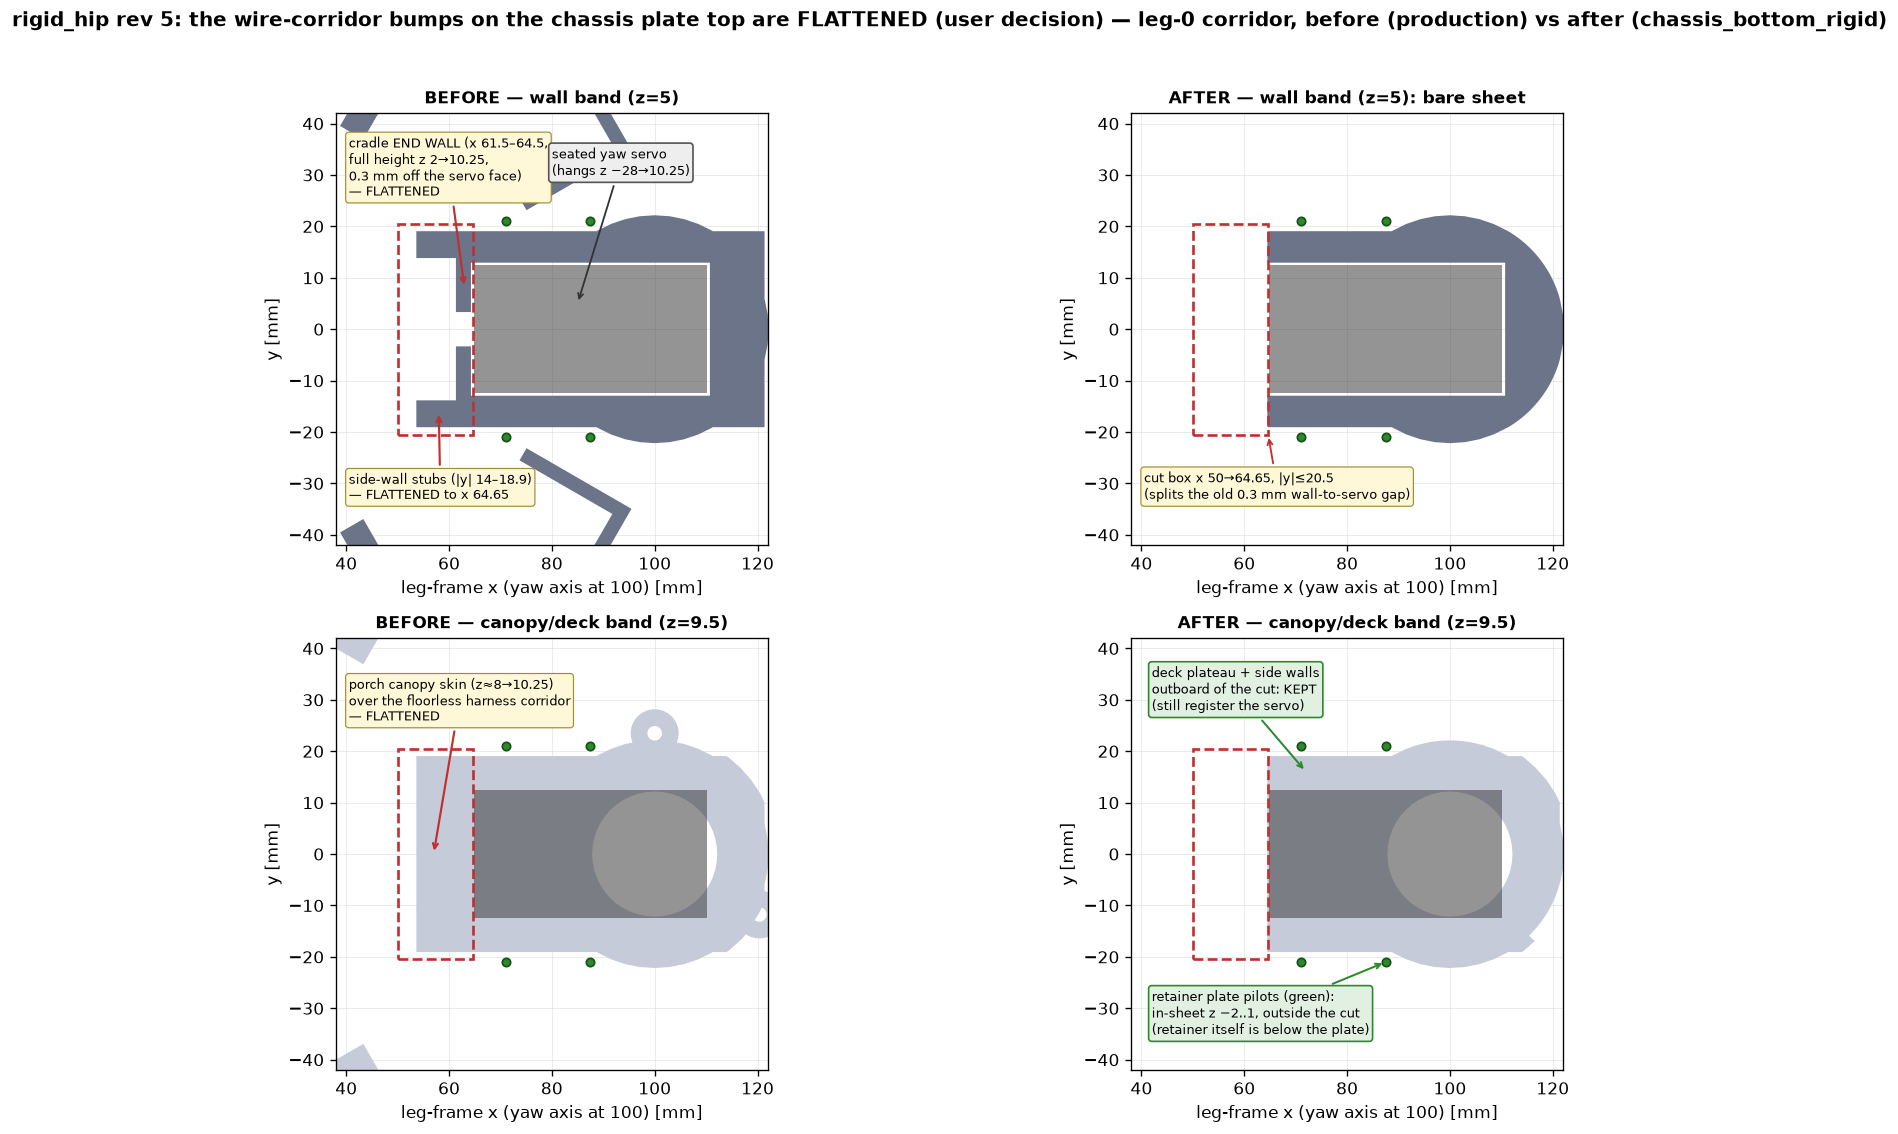
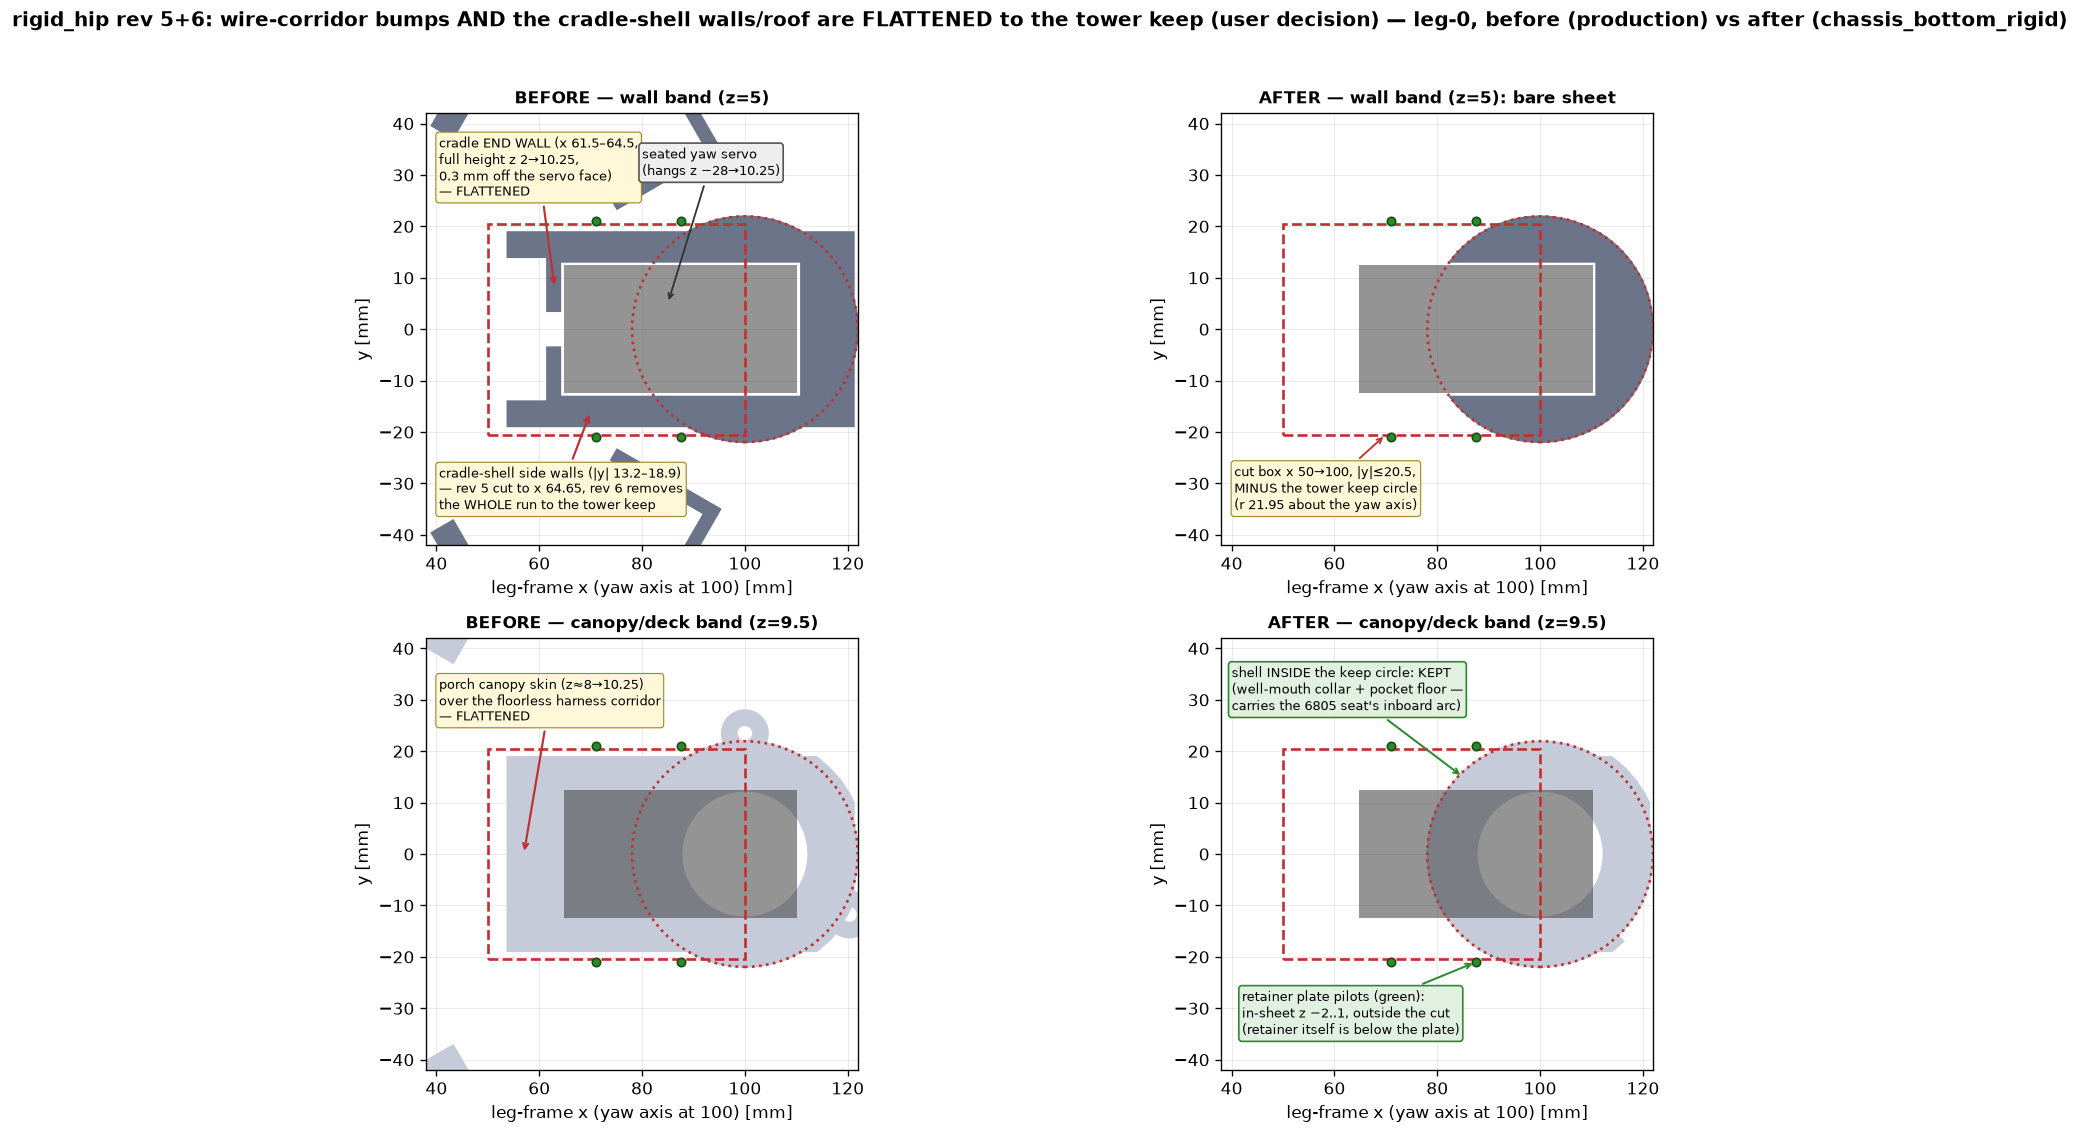
rigid_hip: rev-6 figures — user-angle before/after of the pillar stubs + updated corner-flat sections

diff --git a/hexapod_walker/prototype_sts3215/concepts/rigid_hip/make_pillar_stub_figure.py b/hexapod_walker/prototype_sts3215/concepts/rigid_hip/make_pillar_stub_figure.py
@@ -1,0 +1,154 @@
+"""Annotated 3D before/after of the corner-pillar "gray stubs" (rev 6).
+
+User, Aug 25: "how are there still these two gray things from the waygo
+sticking up on each side of the column".  They were the inboard ends of
+the two adjacent legs' yaw-servo CRADLE SHELLS (side walls + the
+deck-skin roof they carried), left standing by the rev-5 corridor
+flatten.  Rev 6 removes the whole shell run outside the tower keep
+cylinder; this figure reproduces roughly the user's viewer angle
+(inboard, looking out at the az-0 corner) so the change is unambiguous:
+where the stubs stood there is now bare sheet, and the gray thing you
+DO see beside each tower boss is the yaw servo itself.
+
+BEFORE is rebuilt in-process by monkeypatching the rev-5 cut extent
+(CHB_FLAT_X1 = 64.65) before calling the chassis builder; AFTER is the
+shipped stl/chassis_bottom_rigid.stl.  Meshes are boolean-clipped to
+the corner window and subdivided so matplotlib's painter sort holds up.
+
+Run from anywhere:  uv run python make_pillar_stub_figure.py
+Output: pillar_stubs_annotated.png
+"""
+import os
+import sys
+
+import numpy as np
+import trimesh
+import matplotlib
+
+matplotlib.use("Agg")
+import matplotlib.pyplot as plt  # noqa: E402
+from mpl_toolkits.mplot3d import proj3d  # noqa: E402
+from mpl_toolkits.mplot3d.art3d import Poly3DCollection  # noqa: E402
+
+HERE = os.path.abspath(os.path.dirname(__file__))
+sys.path.insert(0, os.path.abspath(os.path.join(HERE, "..", "..")))
+sys.path.insert(0, HERE)
+
+import hexapod_prototype as hp  # noqa: E402
+import make_rigid_hip_variant as mv  # noqa: E402
+
+OUT = os.path.join(HERE, "pillar_stubs_annotated.png")
+
+# ---- geometry ---------------------------------------------------------------
+after = trimesh.load(os.path.join(HERE, "stl", "chassis_bottom_rigid.stl"))
+
+print("rebuilding the rev-5 chassis (BEFORE panel) ...", flush=True)
+_x1 = mv.CHB_FLAT_X1
+mv.CHB_FLAT_X1 = 64.65          # the rev-5 cut stopped at the old wall face
+before = mv.make_chassis_bottom_rigid()
+mv.CHB_FLAT_X1 = _x1
+
+pillar = trimesh.load(os.path.join(HERE, "stl", "corner_pillar.stl"))
+servo = trimesh.load(os.path.join(HERE, "stl", "servo_body_DO_NOT_PRINT.stl"))
+
+servos = []
+for i in (0, 5):                # the two legs adjacent to the az-0 corner
+    T = mv.leg_transforms(i)
+    s = servo.copy()
+    s.apply_transform(T["coxa"] @ mv._trans(
+        [-hp.SERVO_OUTPUT_X, 0.0, -(hp.HORN_STACK_H + hp.WELL_RIM_Z)]))
+    servos.append(s)
+
+LO = np.array([48.0, -42.0, -5.0])
+HI = np.array([120.0, 42.0, 42.0])
+CLIP_BOX = trimesh.creation.box(HI - LO, transform=mv._trans((LO + HI) / 2.0))
+
+
+def window_tris(mesh, max_edge=6.0):
+    """Boolean-clip a mesh to the corner window (fallback: face filter),
+    then subdivide so no triangle is large enough to break depth sort."""
+    try:
+        m = mesh.intersection(CLIP_BOX)
+        v, f = m.vertices, m.faces
+    except Exception:
+        v, f = mesh.vertices, mesh.faces
+        c = v[f].mean(axis=1)
+        f = f[np.all((c > LO) & (c < HI), axis=1)]
+    v, f = trimesh.remesh.subdivide_to_size(v, f, max_edge=max_edge)
+    return v[f]
+
+
+def shaded(tris, base_rgb):
+    n = np.cross(tris[:, 1] - tris[:, 0], tris[:, 2] - tris[:, 0])
+    n /= np.linalg.norm(n, axis=1, keepdims=True) + 1e-12
+    light = np.array([-0.5, 0.15, 0.85])
+    lam = np.clip(n @ light, 0.0, 1.0) * 0.5 + 0.5
+    return np.clip(np.outer(lam, np.asarray(base_rgb)), 0, 1)
+
+
+def draw(ax, chassis, title):
+    parts = [(chassis, (0.70, 0.73, 0.79)),
+             (pillar, (0.35, 0.47, 0.72)),
+             (servos[0], (0.30, 0.30, 0.32)),
+             (servos[1], (0.30, 0.30, 0.32))]
+    for mesh, rgb in parts:
+        tris = window_tris(mesh)
+        ax.add_collection3d(Poly3DCollection(
+            tris, facecolors=shaded(tris, rgb), edgecolor="none"))
+    ax.set_xlim(52, 112)
+    ax.set_ylim(-36, 36)
+    ax.set_zlim(-4, 42)
+    ax.set_box_aspect((60, 72, 46))
+    ax.view_init(elev=17, azim=183)
+    ax.set_proj_type("persp", focal_length=0.30)
+    ax.set_axis_off()
+    ax.set_title(title, fontsize=11, fontweight="bold", pad=0)
+
+
+fig = plt.figure(figsize=(14.5, 7.6), dpi=130)
+axB = fig.add_subplot(1, 2, 1, projection="3d")
+axA = fig.add_subplot(1, 2, 2, projection="3d")
+draw(axB, before, "BEFORE (rev 5) — what the user saw")
+draw(axA, after, "AFTER (rev 6) — shipped chassis_bottom_rigid")
+
+
+def note(ax, xyz, text, fx, fy, fc="#fff8d8", ec="#a08c30",
+         ac="#c03030", fs=8.2):
+    x2, y2, _ = proj3d.proj_transform(*xyz, ax.get_proj())
+    ax.annotate(text, xy=(x2, y2), xycoords="data",
+                xytext=(fx, fy), textcoords="axes fraction",
+                fontsize=fs, ha="center", zorder=20,
+                bbox=dict(boxstyle="round,pad=0.3", fc=fc, ec=ec, lw=0.8),
+                arrowprops=dict(arrowstyle="->", color=ac, lw=1.4))
+
+
+# BEFORE: the two stubs (corner frame: wall ends at ~(64, +/-17.5), z 2..10.25)
+note(axB, (64.0, 18.5, 8.5),
+     "gray stub = inboard end of leg-0's\ncradle shell (side wall + roof)",
+     0.20, 0.88)
+note(axB, (64.0, -18.5, 8.5),
+     "gray stub = same shell of leg 5;\nthey flank the pillar at ~10 mm",
+     0.20, 0.10)
+note(axB, (81.6, 0.0, 32.0), "corner pillar", 0.82, 0.88,
+     fc="#e8edf8", ec="#4d6fa8", ac="#4d6fa8")
+
+# AFTER: what is there now, and why the keeps are keeps
+note(axA, (68.0, 32.0, 4.0),
+     "the gray block beside the boss IS the\nYAW SERVO (case 4.25 mm proud of "
+     "the sheet;\nregistered by the sheet well + belly retainer)",
+     0.20, 0.90)
+note(axA, (64.0, -17.5, 2.2),
+     "bare sheet — the stubs stood here\n(their roof touched nothing)",
+     0.20, 0.08)
+note(axA, (90.0, -38.0, 14.0),
+     "\u03a644 tower boss — KEPT: 6805 bearing\nseat + servo well mouth "
+     "(the shell inside\nit carries the seat's inboard arc)",
+     0.84, 0.10, fc="#e2f0e2", ec="#2c8a2c", ac="#2c8a2c")
+
+fig.suptitle('rigid_hip rev 6 — the "two gray things from the waygo" beside '
+             "each corner pillar: identified and flattened "
+             "(az-0 corner, viewed from inboard like the user's screenshot)",
+             fontsize=12, fontweight="bold")
+fig.tight_layout(rect=(0, 0, 1, 0.965))
+fig.savefig(OUT, bbox_inches="tight")
+print("wrote", OUT)

diff --git a/hexapod_walker/prototype_sts3215/concepts/rigid_hip/make_corner_flat_figure.py b/hexapod_walker/prototype_sts3215/concepts/rigid_hip/make_corner_flat_figure.py
@@ -1,4 +1,5 @@
-"""Annotated before/after figure of the FLATTENED wire corridor (rev 5).
+"""Annotated before/after figure of the FLATTENED wire corridor + cradle
+shell (rev 5, Aug 24 + rev 6, Aug 25).
 
 User decision, Aug 24 rev 5: "take a step back that CRADLE WALL isnt
 doing shit, just flatten it out and its fine" / "also this isnt wall
@@ -23,7 +24,7 @@ import matplotlib
 
 matplotlib.use("Agg")
 import matplotlib.pyplot as plt  # noqa: E402
-from matplotlib.patches import Rectangle  # noqa: E402
+from matplotlib.patches import Circle, Rectangle  # noqa: E402
 
 HERE = os.path.abspath(os.path.dirname(__file__))
 sys.path.insert(0, os.path.abspath(os.path.join(HERE, "..", "..")))
@@ -87,6 +88,8 @@ for ax, mesh, zc, title in panels:
                            CUT["x1"] - CUT["x0"], 2 * CUT["y"],
                            fill=False, ec="#c03030", lw=1.6, ls="--",
                            zorder=6))
+    ax.add_patch(Circle((100.0, 0.0), mv.CHB_KEEP_R, fill=False,
+                        ec="#c03030", lw=1.6, ls=":", zorder=6))
     for (px, py) in RET_PILOTS:
         ax.plot(px, py, "o", ms=5, mfc="#2c8a2c", mec="#145014", zorder=7)
     ax.set_xlim(38, 122)
@@ -103,8 +106,9 @@ axes[0][0].annotate("cradle END WALL (x 61.5–64.5,\nfull height z 2→10.25,"
                     "\n0.3 mm off the servo face)\n— FLATTENED",
                     xy=(63.0, 8.0), xytext=(40.5, 26), fontsize=7.5,
                     bbox=bx, arrowprops=ar, zorder=9)
-axes[0][0].annotate("side-wall stubs (|y| 14–18.9)\n— FLATTENED to x 64.65",
-                    xy=(58.0, -16.0), xytext=(40.5, -33), fontsize=7.5,
+axes[0][0].annotate("cradle-shell side walls (|y| 13.2–18.9)\n— rev 5 cut to "
+                    "x 64.65, rev 6 removes\nthe WHOLE run to the tower keep",
+                    xy=(70.0, -16.0), xytext=(40.5, -35), fontsize=7.5,
                     bbox=bx, arrowprops=ar, zorder=9)
 axes[0][0].annotate("seated yaw servo\n(hangs z −28→10.25)",
                     xy=(85.0, 5.0), xytext=(80, 30), fontsize=7.5,
@@ -115,14 +119,14 @@ axes[1][0].annotate("porch canopy skin (z≈8→10.25)\nover the floorless "
                     "harness corridor\n— FLATTENED",
                     xy=(57.0, 0.0), xytext=(40.5, 26), fontsize=7.5,
                     bbox=bx, arrowprops=ar, zorder=9)
-axes[0][1].annotate("cut box x 50→64.65, |y|≤20.5\n(splits the old 0.3 mm "
-                    "wall-to-servo gap)",
-                    xy=(64.65, -20.5), xytext=(40.5, -33), fontsize=7.5,
+axes[0][1].annotate("cut box x 50→100, |y|≤20.5,\nMINUS the tower keep "
+                    "circle\n(r 21.95 about the yaw axis)",
+                    xy=(70.0, -20.5), xytext=(40.5, -35), fontsize=7.5,
                     bbox=bx, zorder=9,
                     arrowprops=dict(arrowstyle="->", color="#c03030", lw=1.1))
-axes[1][1].annotate("deck plateau + side walls\noutboard of the cut: KEPT\n"
-                    "(still register the servo)",
-                    xy=(72.0, 16.0), xytext=(42, 28), fontsize=7.5,
+axes[1][1].annotate("shell INSIDE the keep circle: KEPT\n(well-mouth collar + "
+                    "pocket floor —\ncarries the 6805 seat's inboard arc)",
+                    xy=(85.0, 15.0), xytext=(40, 28), fontsize=7.5,
                     bbox=dict(boxstyle="round,pad=0.25", fc="#e2f0e2",
                               ec="#2c8a2c"), zorder=9,
                     arrowprops=dict(arrowstyle="->", color="#2c8a2c", lw=1.2))
@@ -134,9 +138,9 @@ axes[1][1].annotate("retainer plate pilots (green):\nin-sheet z −2..1, "
                               ec="#2c8a2c"), zorder=9,
                     arrowprops=dict(arrowstyle="->", color="#2c8a2c", lw=1.2))
 
-fig.suptitle("rigid_hip rev 5: the wire-corridor bumps on the chassis plate "
-             "top are FLATTENED (user decision) — leg-0 corridor, "
-             "before (production) vs after (chassis_bottom_rigid)",
+fig.suptitle("rigid_hip rev 5+6: wire-corridor bumps AND the cradle-shell "
+             "walls/roof are FLATTENED to the tower keep (user decision) — "
+             "leg-0, before (production) vs after (chassis_bottom_rigid)",
              fontsize=12, fontweight="bold")
 fig.tight_layout(rect=(0, 0, 1, 0.96))
 fig.savefig(OUT, bbox_inches="tight")
